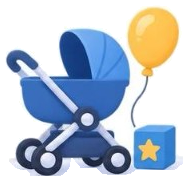
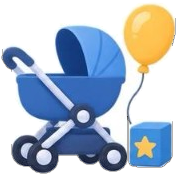
Убрать рваную обводку и оставить у картинок ровный мягкий край.

diff --git a/index.html b/index.html
@@ -386,39 +386,39 @@
       <path class="branch"/>
     </svg>
     <button class="cp" type="button" data-n="1" data-side="left">
-      <span class="mark" aria-hidden="true"><img src="assets/icon-1.png?v=3" alt=""></span>
+      <span class="mark" aria-hidden="true"><img src="assets/icon-1.png?v=4" alt=""></span>
       <span class="name">На привокзальной площади</span>
     </button>
     <button class="cp" type="button" data-n="2" data-side="right">
-      <span class="mark" aria-hidden="true"><img src="assets/icon-2.png?v=3" alt=""></span>
+      <span class="mark" aria-hidden="true"><img src="assets/icon-2.png?v=4" alt=""></span>
       <span class="name">Входной досмотр</span>
     </button>
     <button class="cp" type="button" data-n="3" data-side="left">
-      <span class="mark" aria-hidden="true"><img src="assets/icon-3.png?v=3" alt=""></span>
+      <span class="mark" aria-hidden="true"><img src="assets/icon-3.png?v=4" alt=""></span>
       <span class="name">Регистрация на рейс</span>
     </button>
     <button class="cp" type="button" data-n="4" data-side="right">
-      <span class="mark" aria-hidden="true"><img src="assets/icon-4.png?v=3" alt=""></span>
+      <span class="mark" aria-hidden="true"><img src="assets/icon-4.png?v=4" alt=""></span>
       <span class="name">Комната матери и ребенка</span>
     </button>
     <button class="cp" type="button" data-n="5" data-side="left">
-      <span class="mark" aria-hidden="true"><img src="assets/icon-5.png?v=3" alt=""></span>
+      <span class="mark" aria-hidden="true"><img src="assets/icon-5.png?v=4" alt=""></span>
       <span class="name">Предполетный досмотр</span>
     </button>
     <button class="cp" type="button" data-n="6" data-side="right">
-      <span class="mark" aria-hidden="true"><img src="assets/icon-6.png?v=3" alt=""></span>
+      <span class="mark" aria-hidden="true"><img src="assets/icon-6.png?v=4" alt=""></span>
       <span class="name">В ожидании вылета</span>
     </button>
     <button class="cp" type="button" data-n="7" data-side="left">
-      <span class="mark" aria-hidden="true"><img src="assets/icon-7.png?v=3" alt=""></span>
+      <span class="mark" aria-hidden="true"><img src="assets/icon-7.png?v=4" alt=""></span>
       <span class="name">Приоритетная посадка</span>
     </button>
     <button class="cp" type="button" data-n="8" data-side="right">
-      <span class="mark" aria-hidden="true"><img src="assets/icon-8.png?v=3" alt=""></span>
+      <span class="mark" aria-hidden="true"><img src="assets/icon-8.png?v=4" alt=""></span>
       <span class="name">Для прилетевших пассажиров</span>
     </button>
     <button class="cp" type="button" data-n="9" data-side="left">
-      <span class="mark" aria-hidden="true"><img src="assets/icon-9.png?v=3" alt=""></span>
+      <span class="mark" aria-hidden="true"><img src="assets/icon-9.png?v=4" alt=""></span>
       <span class="name">Комплексная поддержка пассажиров с детьми</span>
     </button>
   </main>
